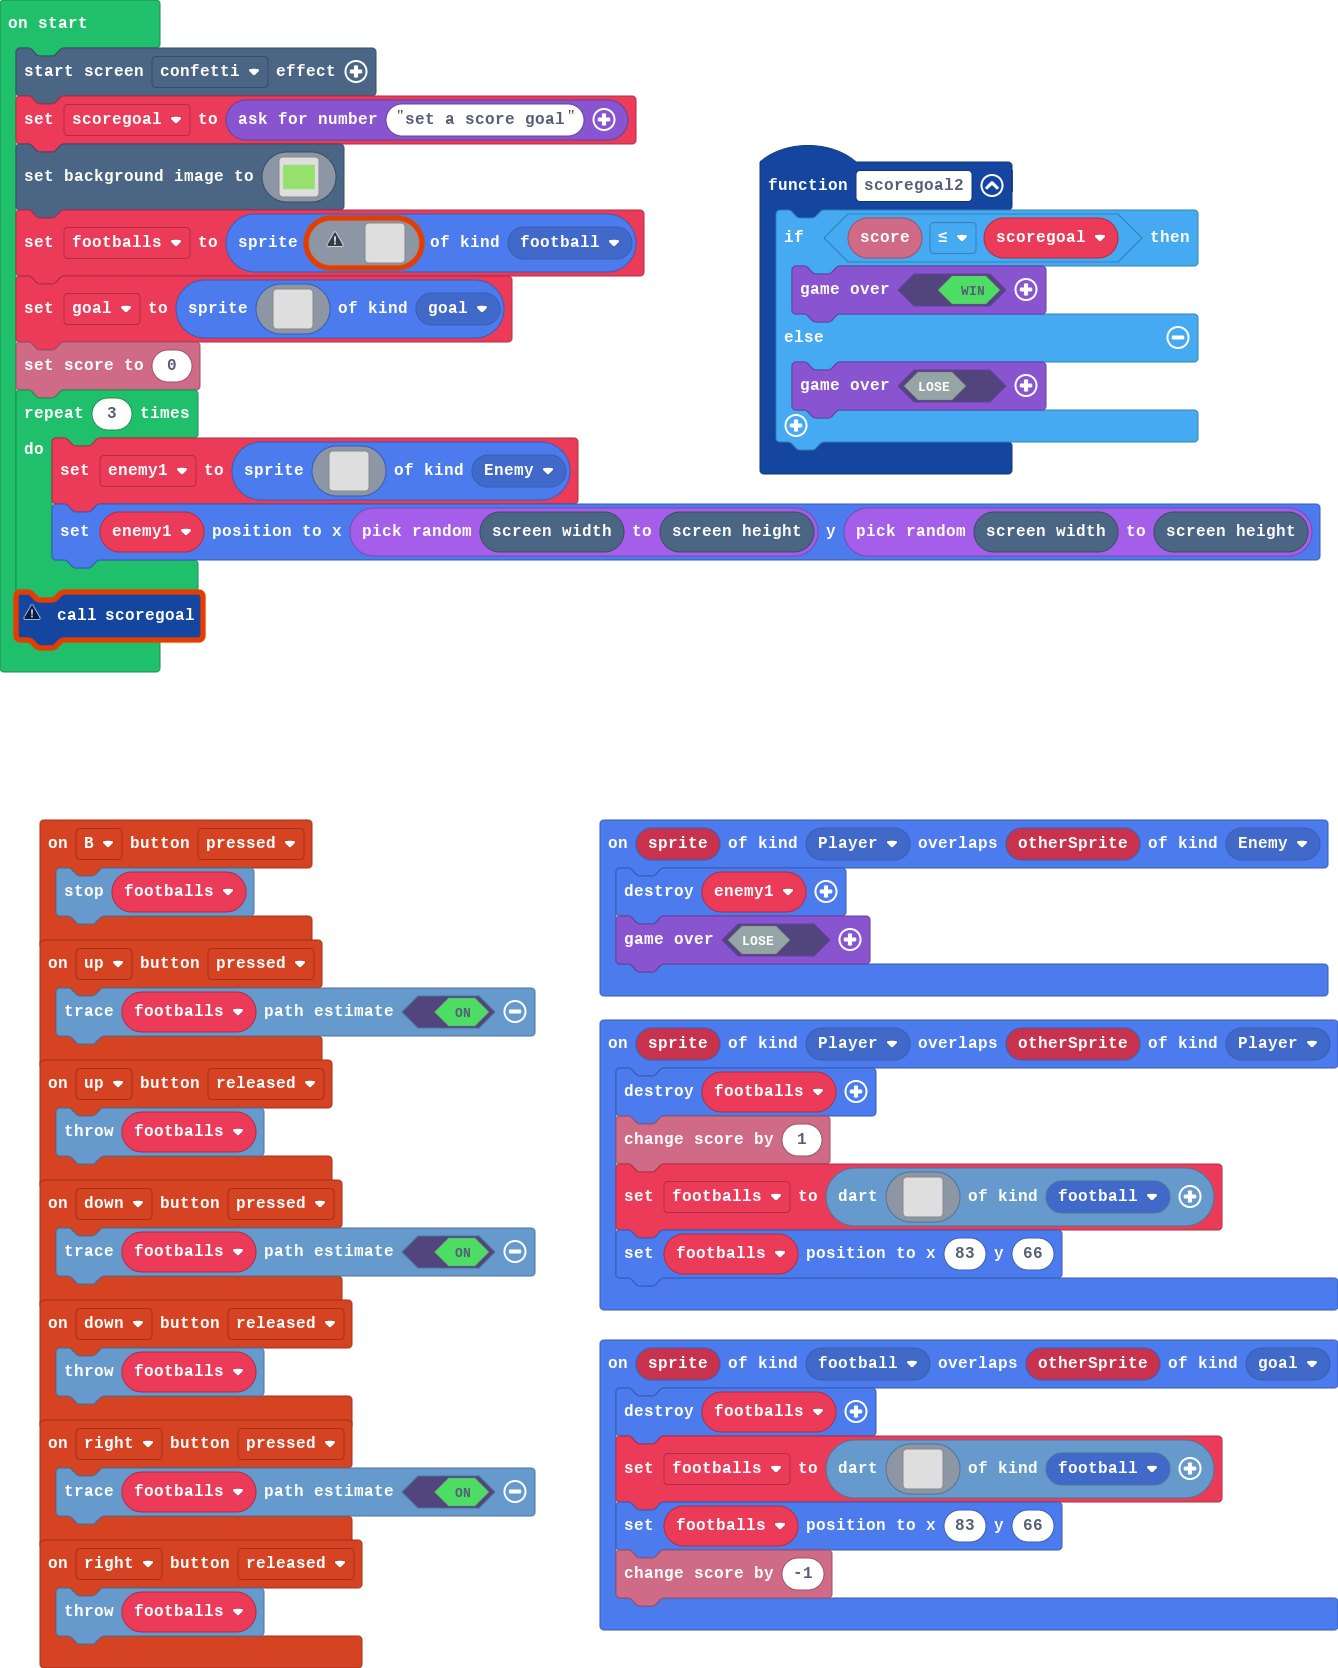
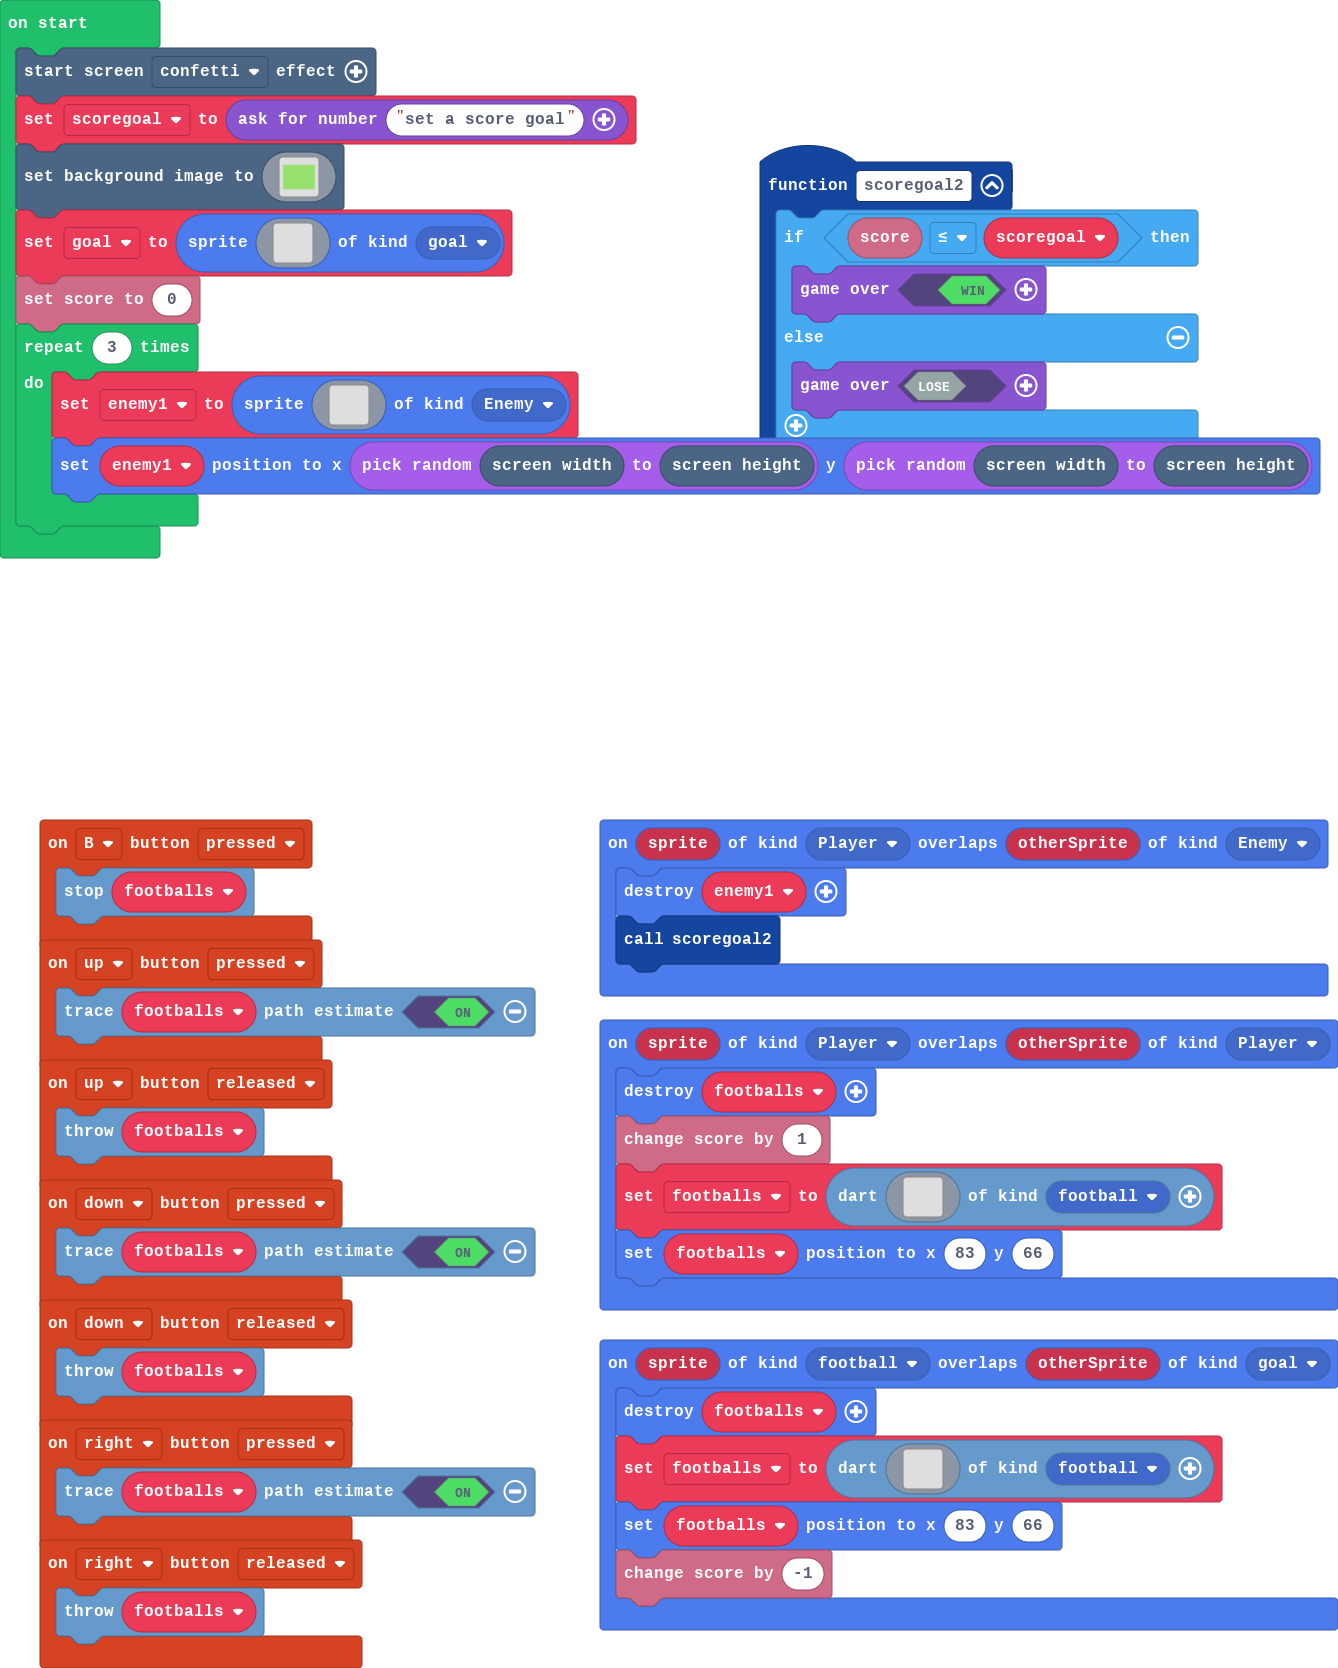
Update main.blocks, main.ts

Changed region(s): [[0.0, 0.1247, 1.0, 0.4053], [0.4596, 0.53, 0.6741, 0.5923]]

diff --git a/main.ts b/main.ts
@@ -79,10 +79,10 @@ sprites.onOverlap(SpriteKind.football, SpriteKind.goal, function (sprite, otherS
 })
 sprites.onOverlap(SpriteKind.Player, SpriteKind.Enemy, function (sprite, otherSprite) {
     enemy1.destroy()
-    game.over(false)
+    scoregoal2()
 })
-let enemy1: Sprite = null
 let footballs: Dart = null
+let enemy1: Sprite = null
 let scoregoal = 0
 effects.confetti.startScreenEffect()
 scoregoal = game.askForNumber("set a score goal")
@@ -208,24 +208,6 @@ scene.setBackgroundImage(img`
     7777777777777777777777777777777777777777777777777777777777777777777777777777777777777777777777777777777777777777777777777777777777777777777777777777777777777777
     7777777777777777777777777777777777777777777777777777777777777777777777777777777777777777777777777777777777777777777777777777777777777777777777777777777777777777
     `)
-footballs = sprites.create(img`
-    . . . . . . . . . . . . . . . . 
-    . . . . . . . . . . . . . . . . 
-    . . . . . . . . . . . . . . . . 
-    . . . . . . . . . . . . . . . . 
-    . . . . . . . . . . . . . . . . 
-    . . . . . . . . . . . . . . . . 
-    . . . . . . . . . . . . . . . . 
-    . . . . . . . . . . . . . . . . 
-    . . . . . . . . . . . . . . . . 
-    . . . . . . . . . . . . . . . . 
-    . . . . . . . . . . . . . . . . 
-    . . . . . . . . . . . . . . . . 
-    . . . . . . . . . . . . . . . . 
-    . . . . . . . . . . . . . . . . 
-    . . . . . . . . . . . . . . . . 
-    . . . . . . . . . . . . . . . . 
-    `, SpriteKind.football)
 let goal = sprites.create(img`
     . . . . . . . . . . . . . . . . 
     . . . . . . . . . . . . . . . . 
@@ -266,4 +248,3 @@ for (let index = 0; index < 3; index++) {
         `, SpriteKind.Enemy)
     enemy1.setPosition(randint(scene.screenWidth(), scene.screenHeight()), randint(scene.screenWidth(), scene.screenHeight()))
 }
-scoregoal()
